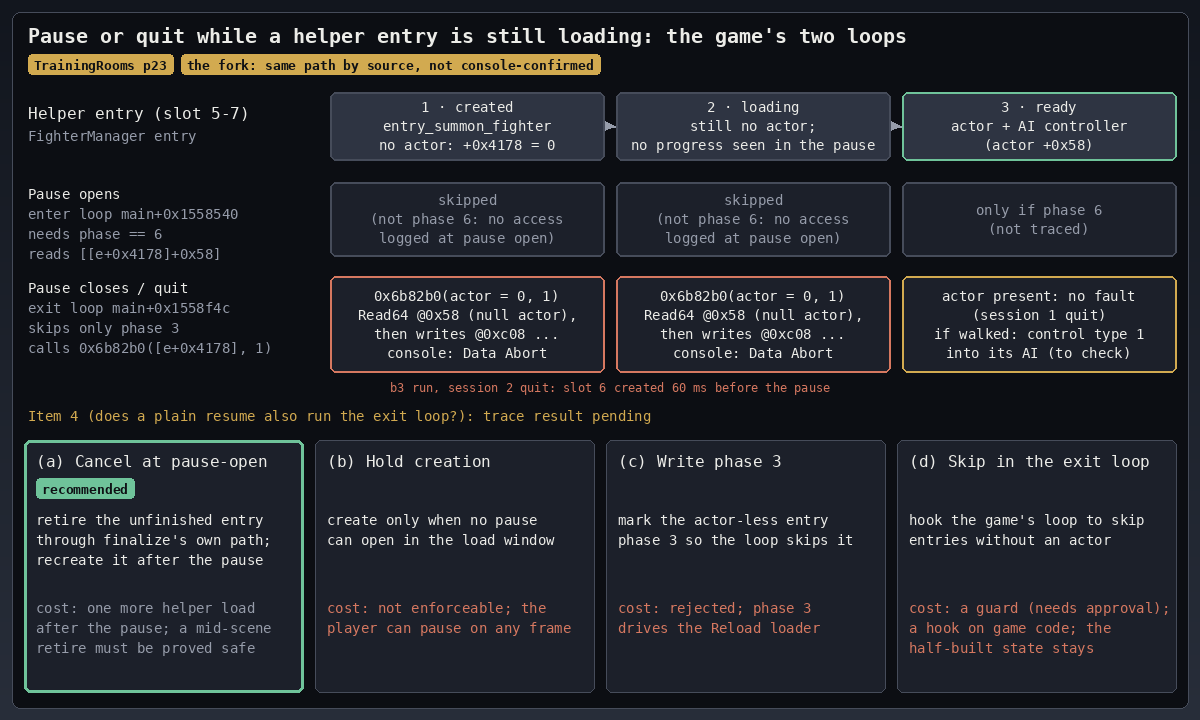
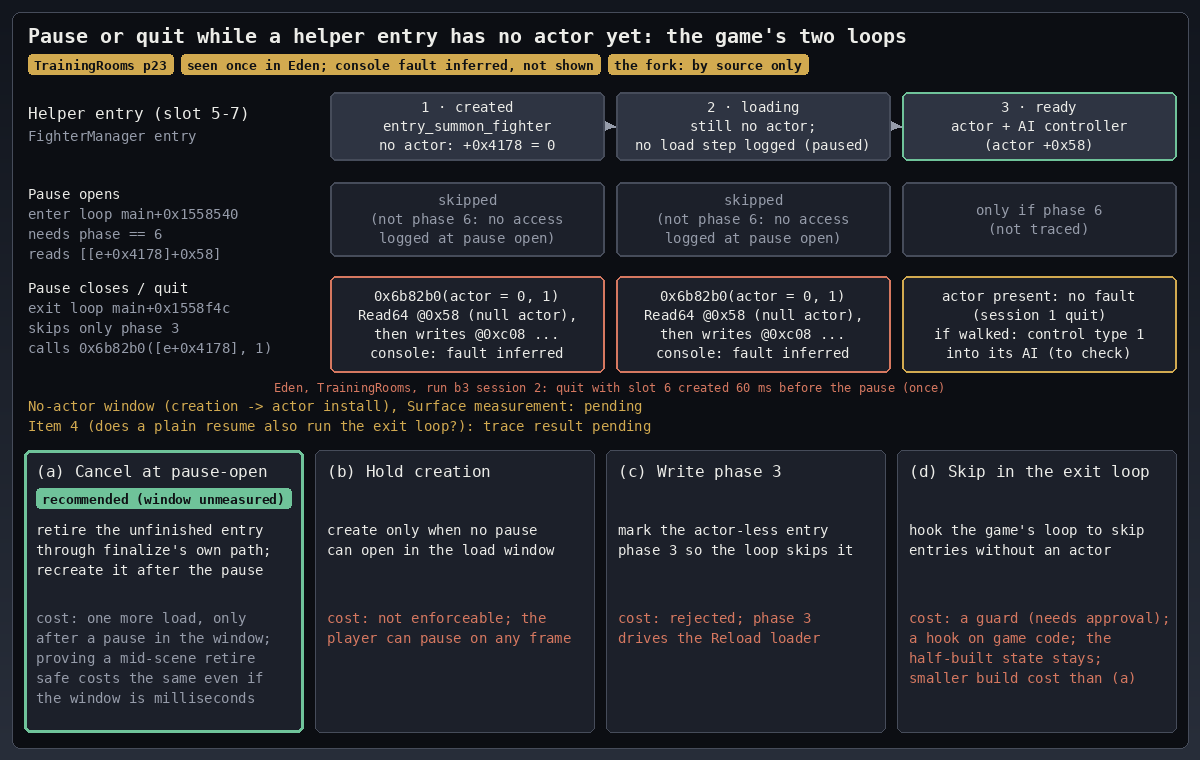
PAUSE-HELPER: state the evidence exactly; weigh the options against a narrow window (docs only)
Correction ordered by the primary (~21:51Z): the null access is shown once, in Eden, on the
TrainingRooms build (quit 60 ms after the helper's creation); a console crash is inferred, not
shown, and the operator reports that a similar console quit did not crash; the fork's exposure is
by source only. The likely reason (not measured yet): the no-actor window (creation to actor
install) is much shorter than the UI's loading period. A placeholder is left for the Surface
lane's measurement of that window, next to the item-4 placeholder.

Each option is now weighed against a narrow window too: (a) stays recommended while the window is
unmeasured, but its build cost (proving a mid-scene retire safe) does not shrink with the window;
(d) has the smaller build cost. Picture redrawn with the same wording.

diff --git a/tools/render_decisions.py b/tools/render_decisions.py
@@ -825,15 +825,16 @@ def d_ledgechange():
 
 def d_pausehelper():
     """PAUSE-HELPER (2026-11-04): the game's pause loops against a created helper entry's phases."""
-    h = 720
+    h = 760
     c = DCanvas(WIDE, h)
     c.rect(12, 12, WIDE - 12, h - 12, fill=PANEL, outline=LINE, radius=8)
-    c.text(28, 24, "Pause or quit while a helper entry is still loading: the game's two loops", "h", FG)
+    c.text(28, 24, "Pause or quit while a helper entry has no actor yet: the game's two loops", "h", FG)
     tx = tag(c, 28, 54, "TrainingRooms p23", ADV)
-    tag(c, tx + 8, 54, "the fork: same path by source, not console-confirmed", ADV)
+    tx = tag(c, tx + 8, 54, "seen once in Eden; console fault inferred, not shown", ADV)
+    tag(c, tx + 8, 54, "the fork: by source only", ADV)
     cols = [(330, 604), (616, 890), (902, 1176)]
     phases = [["1 · created", "entry_summon_fighter", "no actor: +0x4178 = 0"],
-              ["2 · loading", "still no actor;", "no progress seen in the pause"],
+              ["2 · loading", "still no actor;", "no load step logged (paused)"],
               ["3 · ready", "actor + AI controller", "(actor +0x58)"]]
     c.text(28, 104, "Helper entry (slot 5-7)", "s", FG)
     c.text(28, 128, "FighterManager entry", "xs", MUTED)
@@ -854,17 +855,20 @@ def d_pausehelper():
                      "calls 0x6b82b0([e+0x4178], 1)"])
     for x0, x1 in cols[:2]:
         box(c, x0, y - 4, x1, y + 92, ["0x6b82b0(actor = 0, 1)", "Read64 @0x58 (null actor),",
-                                       "then writes @0xc08 ...", "console: Data Abort"], col=BAD, fill=TILE)
+                                       "then writes @0xc08 ...", "console: fault inferred"], col=BAD, fill=TILE)
     box(c, cols[2][0], y - 4, cols[2][1], y + 92, ["actor present: no fault", "(session 1 quit)",
                                                    "if walked: control type 1", "into its AI (to check)"],
         col=ADV, fill=TILE)
-    c.text((cols[0][0] + cols[1][1]) / 2, y + 100, "b3 run, session 2 quit: slot 6 created 60 ms before the pause",
+    c.text((cols[0][0] + cols[1][1]) / 2, y + 100,
+           "Eden, TrainingRooms, run b3 session 2: quit with slot 6 created 60 ms before the pause (once)",
            "xxs", BAD, "m")
-    c.text(28, 408, "Item 4 (does a plain resume also run the exit loop?): trace result pending", "xs", ADV)
+    c.text(28, 398, "No-actor window (creation -> actor install), Surface measurement: pending", "xs", ADV)
+    c.text(28, 418, "Item 4 (does a plain resume also run the exit loop?): trace result pending", "xs", ADV)
     # the options
     opts = [("(a) Cancel at pause-open", True,
              ["retire the unfinished entry", "through finalize's own path;", "recreate it after the pause"],
-             ["cost: one more helper load", "after the pause; a mid-scene", "retire must be proved safe"]),
+             ["cost: one more load, only", "after a pause in the window;", "proving a mid-scene retire",
+              "safe costs the same even if", "the window is milliseconds"]),
             ("(b) Hold creation", False,
              ["create only when no pause", "can open in the load window"],
              ["cost: not enforceable; the", "player can pause on any frame"]),
@@ -873,16 +877,17 @@ def d_pausehelper():
              ["cost: rejected; phase 3", "drives the Reload loader"]),
             ("(d) Skip in the exit loop", False,
              ["hook the game's loop to skip", "entries without an actor"],
-             ["cost: a guard (needs approval);", "a hook on game code; the", "half-built state stays"])]
+             ["cost: a guard (needs approval);", "a hook on game code; the", "half-built state stays;",
+              "smaller build cost than (a)"])]
     w = (WIDE - 48 - 3 * 12) / 4
     for i, (title, rec, what, cost) in enumerate(opts):
         x0 = 24 + i * (w + 12)
-        c.rect(x0, 440, x0 + w, h - 28, fill=TILE, outline=OURS if rec else LINE, width=3 if rec else 1, radius=6)
-        c.text(x0 + 12, 452, title, "s", FG)
+        c.rect(x0, 450, x0 + w, h - 28, fill=TILE, outline=OURS if rec else LINE, width=3 if rec else 1, radius=6)
+        c.text(x0 + 12, 462, title, "s", FG)
         if rec:
-            tag(c, x0 + 12, 478, "recommended", OURS)
-        lines(c, x0 + 12, 512, what, "xs", FG)
-        lines(c, x0 + 12, 600, cost, "xs", BAD if not rec else MUTED)
+            tag(c, x0 + 12, 488, "recommended (window unmeasured)", OURS)
+        lines(c, x0 + 12, 522, what, "xs", FG)
+        lines(c, x0 + 12, 610, cost, "xs", BAD if not rec else MUTED)
     c.save("PAUSE-HELPER-null-access")
 
 

diff --git a/docs/DECISIONS.md b/docs/DECISIONS.md
@@ -527,60 +527,75 @@ Sources: Surface lane report `artifacts/phase23/LANE-SURFACE-REPORT.md` ("Round 
 
 ### PAUSE-HELPER · Pausing or quitting while a helper entry is still loading — open (2026-11-04)
 
-Raised 2026-11-04 ~21:42Z by the Ally lane's root cause, from the Surface lane's B3 finding. No fix exists yet. Any
-guard, skip or tolerance waits for this decision.
+Raised 2026-11-04 ~21:42Z by the Ally lane's root cause of the Surface lane's B3 finding; corrected ~21:51Z. No fix
+exists yet. Any guard, skip or tolerance waits for this decision.
 
-**What happens.** The Surface run `tr-p23-surface-b3` quit Training a second time 60 ms after the plugin had created
-helper slot 6 (Kirby). The game then made 17 null accesses in its own code (`out/console-at-down.log:13794-13810`).
-On a console the first one is a Data Abort, so this is release-relevant. Session 1's quit, with both helpers ready,
-had none.
+**What is shown, and what is not:**
+
+- **Shown, once, in Eden, on the TrainingRooms build.** Run `tr-p23-surface-b3` quit Training a second time 60 ms
+  after the plugin had created helper slot 6 (Kirby). The game's own code then made 17 logged null accesses
+  (`out/console-at-down.log:13794-13810`). Session 1's quit, with both helpers ready, logged none.
+- **Inferred, not shown: a console crash.** Eden returns 0 for these reads; the console normally faults on a null
+  read. The operator reports that a similar quit on the console did **not** crash. The likely reason, not yet
+  measured: the no-actor window (creation → actor install) is much shorter than the "loading" period the UI shows,
+  so an ordinary quit rarely lands inside it.
+- **The fork: by source only.** `UltimateTrainingModpack-lobby-parity` `experiment/cycle-preload` (`2521f5c`)
+  creates helpers through the same call (`src/native_source_capacity.rs:705-722`), and its documented release
+  build (`README.md:25`) turns that code on. Nothing has been run on the fork for this.
+
+**No-actor window, measured by the Surface lane:** _(to be filled in)_
 
 **The cause** (13.0.5 ELF and the run's logs):
 
 - **The helper.** The plugin creates helper entries through `kiiladarzmanager::entry_summon_fighter`
-  (`main+0x1652f40`). That puts an entry into `FighterManager` (slots 5–7) with **no actor yet** at `+0x4178`. The
-  actor appears only when the helper's load installs it.
-  - Slot 6 never logged its first load step before the quit. It retired with `ready_actors=0`.
-  - In this run the load showed no progress while the game was paused.
-- **The pause-enter loop** (`main+0x1558540`) only touches entries in phase 6 (`+0x5920 == 6`). It skipped the
-  half-built helper, and no access was logged at pause open.
-- **The pause-exit loop** (`main+0x1558f4c`, in the pause state `main+0x1558720`) skips **only phase 3**.
+  (`main+0x1652f40`). That puts an entry into `FighterManager` (slots 5–7) with no actor yet at `+0x4178`. The actor
+  appears when the helper's load installs it.
+  - Slot 6 logged no load step between its creation and the finalize 2.3 s later, which included the pause. It
+    retired with `ready_actors=0`.
+- **The pause-enter loop** (`main+0x1558540`) only touches entries in phase 6 (`+0x5920 == 6`). No access was logged
+  at pause open.
+- **The pause-exit loop** (`main+0x1558f4c`, in the pause state `main+0x1558720`) skips only phase 3.
   - It calls the AI control-type setter `0x6b82b0([entry+0x4178], 1)` for every other entry 1–7 whose
     `+0x5aa0 == 0x50000000`.
   - For the helper, `[entry+0x4178]` was 0. The setter's `ldr x0,[x0,#0x58]` read address `0x58`, then wrote
     through that null at `0xc08`, `0xc12`, `0xc4c` and `0xc4d`.
 - **Why native code never meets this.** Native Training has only entries 0 and 1, both complete before play, so the
   exit loop never meets an entry without an actor. The plugin builds a state the game never builds, and the game's
-  own pause code walks it.
-
-**The fork.** It has the same path by source; this is **not console-confirmed**.
-- `UltimateTrainingModpack-lobby-parity` `experiment/cycle-preload` (`2521f5c`) creates helpers through the same call
-  (`src/native_source_capacity.rs:705-722`).
-- Its documented release build (`README.md:25`) turns that code on.
-- Neither tree reacts to the game's pause while a created helper is loading.
+  pause code can walk it while that state lasts.
+- **The exposure.** A pause that opens inside the no-actor window, followed by a quit (and, if item 4 says so, a
+  resume). In the one case seen, the window did not close during the pause.
 
 **Item 4: does a plain resume (not only quit) run the exit loop?** _(trace result: to be filled in by the primary)_
 
 ![Pause and helper null access](decisions/PAUSE-HELPER-null-access.png)
 
-**Options:**
+**Options.** Each one is weighed against both a wide window (seconds) and a narrow one (milliseconds).
 
-1. **(a) Cancel at pause-open (recommended).** When the game's pause opens while a created helper has no actor,
-   retire that entry through the native path finalize already uses, and create it again after the pause.
+1. **(a) Cancel at pause-open (recommended while the window is unmeasured).** When the game's pause opens while a
+   created helper has no actor, retire that entry through the native path finalize already uses, and create it
+   again after the pause.
    - This keeps the rule the game relies on: every entry the pause loops can see is complete.
-   - Cost: one more helper load after such a pause, so the helper is ready later. It also needs proof, with a host
-     test and an Eden row, that retiring an entry mid-scene is safe; today that path runs only inside finalize.
-2. **(b) Hold creation** until no pause can open during the load.
-   - Cost: not enforceable from the plugin. The player can pause on any frame, and a load takes 0.5–2.5 s.
+   - Cost to the player: one more helper load, only after a pause that opened inside the window, so a narrow
+     window makes it rare.
+   - Cost to build: a mid-scene retire must be proved safe (a host test and an Eden row); today that path runs only
+     inside finalize. This cost does not shrink with the window. If the window is milliseconds, it may not be
+     justified against the risk.
+2. **(b) Hold creation** until no pause can open during the window.
+   - Cost: the plugin can't enforce this, because the player can pause on any frame. A narrow window shrinks the
+     exposure but does not close it.
 3. **(c) Write phase 3** on the actor-less entry, so the exit loop skips it.
-   - Cost: rejected. Phase 3 drives the game's Reload loader (`src/model/mii/mii_setup.rs:32-77`), so the write
-     would start a load the game did not ask for.
+   - Cost: rejected whatever the window. Phase 3 drives the game's Reload loader
+     (`src/model/mii/mii_setup.rs:32-77`), so the write would start a load the game did not ask for.
 4. **(d) Skip in the exit loop.** Hook the game's loop to skip entries without an actor.
-   - Cost: a guard, which needs this approval. It adds a hook on game code, and the half-built state stays, so any
-     other native path that assumes complete entries can still meet it.
+   - Cost: a guard, which needs this approval. It adds a hook on game code, and the half-built state stays for any
+     other native path that assumes complete entries.
+   - Its build cost is smaller than (a)'s and does not depend on the window.
+
+If the measured window is milliseconds, the operator may also judge the remaining risk acceptable for now and
+decide after more console play. This item records the facts; it does not claim the console fails.
 
 **The operator's choices for the fork.** The 11-03 ruling is no fork work, so the fork is your call:
-- leave the fork as it is (it is exposed by source, as above);
+- leave it as it is (exposed by source, nothing run);
 - port the chosen fix to the fork as well;
 - or turn helper creation off in the fork's next build. Creation compiles with `managed-third-source-alpha`, which
   `cycle-preload-extended`, `lobby-preload-extended` and `native-body-bank-alpha` each pull in. Dropping all three
